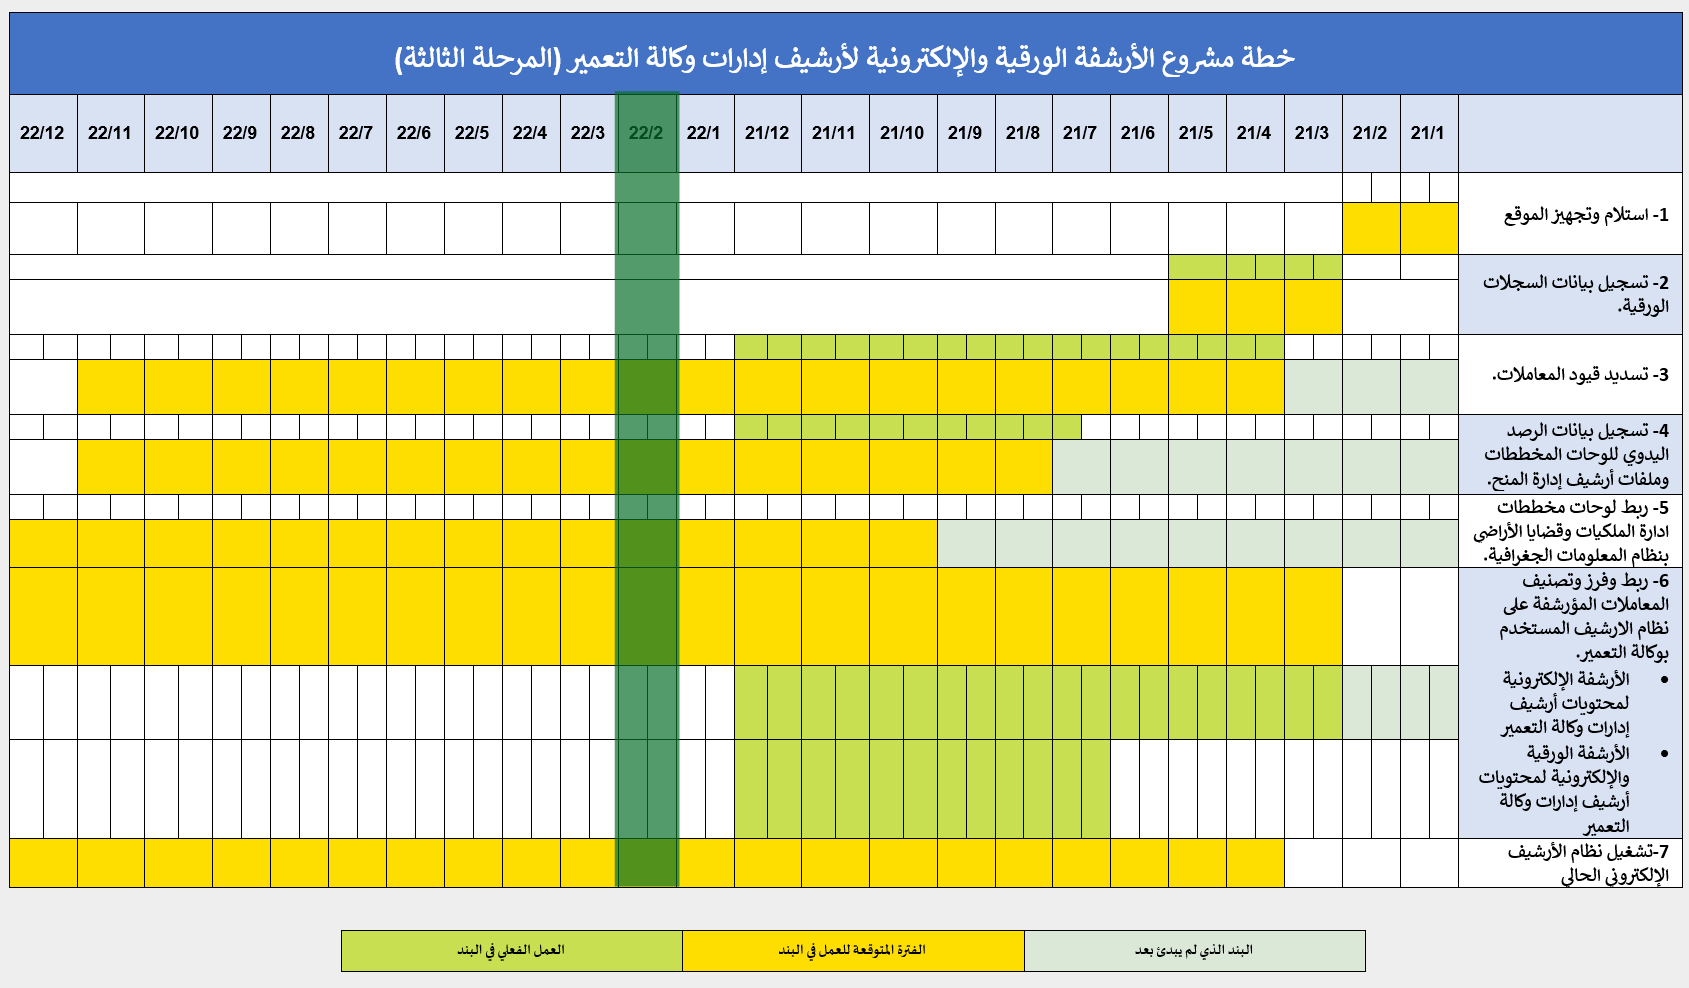
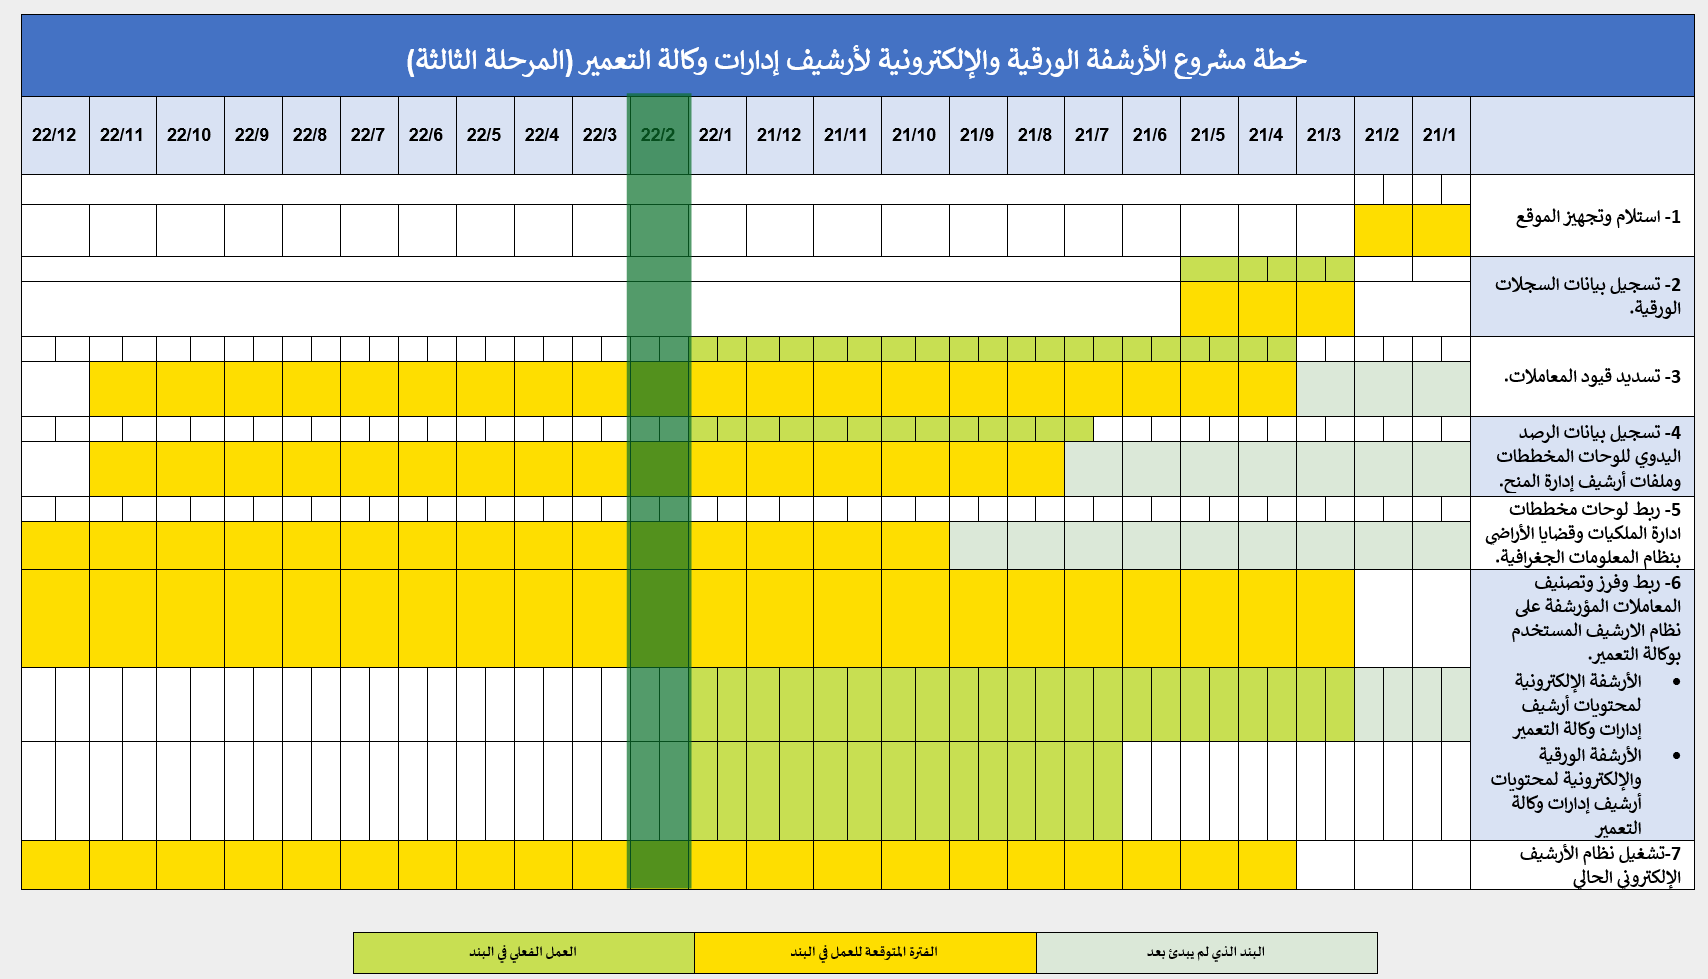
13-2-2022

Changed region(s): [[0.0, 0.0, 1.0, 1.0], [0.0, 0.2451, 0.0924, 0.3064]]

diff --git a/index.html b/index.html
@@ -141,7 +141,7 @@
         
         <div class="bottomleft">
           <table2 style="width:25%">
-            <p2>حُدث بتاريخ 6-2-2022</p2>
+            <p2>حُدث بتاريخ 13-2-2022</p2>
         </table2>  
         </div>
       </div>
@@ -254,7 +254,7 @@
                         },
                         data: {
 
-                          series: [52.39, 28.56, 25.05, 70, 3.95],
+                          series: [52.54, 28.56, 25.05, 70, 7.1],
                           chartOptions: {
                             chart: {
                               height: 350,
@@ -505,12 +505,12 @@
               <div class="progress" style="max-width: 100%">
                 
                 <div class="progress-bar progress-bar-striped bg-success
-                  progress-bar-stripped" style="width:50.49%">
+                  progress-bar-stripped" style="width:52.39%">
                 </div>
-                <small class="justify-content-center d-flex position-absolute w-100">52.39% اكتمل</small>
+                <small class="justify-content-center d-flex position-absolute w-100">52.54% اكتمل</small>
 
                 <div class="progress-bar progress-bar-striped yelloBG
-                  progress-bar-stripped" style="width:1.90%">
+                  progress-bar-stripped" style="width:0.15%">
                 
                 </div>
               </div>
@@ -666,10 +666,10 @@
                 <div class="progress-bar progress-bar-striped bg-success
                   progress-bar-stripped" style="width:3.95%">
                 </div>
-                <small class="justify-content-center d-flex position-absolute w-100">3.95% اكتمل</small>
+                <small class="justify-content-center d-flex position-absolute w-100">7.1% اكتمل</small>
 
                 <div class="progress-bar progress-bar-striped yelloBG
-                  progress-bar-stripped" style="width:0%">
+                  progress-bar-stripped" style="width:3.15%">
                 </div>
               </div>
               
@@ -748,17 +748,17 @@
                 <span class="text-dark-75 font-size-h2 font-weight-bolder mr-2">25,000</span>
               </div>
               <div class="font-weight-bold text-muted font-size-sm">نسبة الانجاز
-                <span class="text-dark-75 font-size-h2 font-weight-bolder mr-2">%91.67</span>
+                <span class="text-dark-75 font-size-h2 font-weight-bolder mr-2">%100</span>
               </div>
               
               <div class="progress" style="max-width: 100%">
                 <div class="progress-bar progress-bar-striped bg-success
-                  progress-bar-stripped" style="width:90.78%">
+                  progress-bar-stripped" style="width:91.67%">
                 </div>
-                <small class="justify-content-center d-flex position-absolute w-100">91.67% اكتمل</small>
+                <small class="justify-content-center d-flex position-absolute w-100">100% اكتمل</small>
 
                 <div class="progress-bar progress-bar-striped yelloBG
-                  progress-bar-stripped" style="width:0.89%">
+                  progress-bar-stripped" style="width:8.33%">
                 
                 </div>
               </div>
